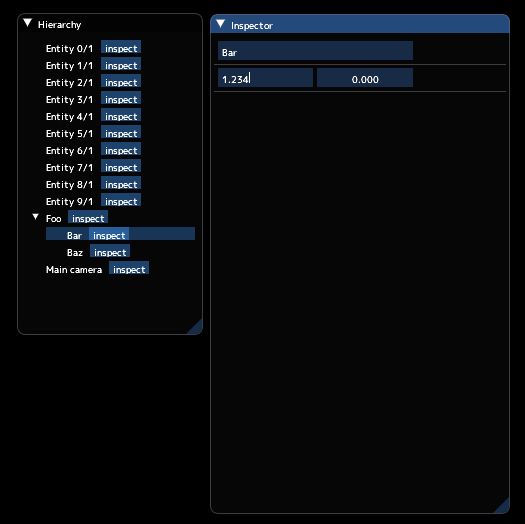
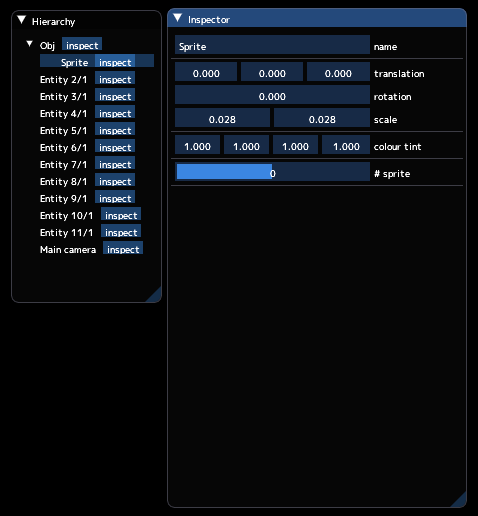
userdata, readme upd, screenshot upd

Changed region(s): [[0.0293, 0.0, 0.9958, 0.9922]]

diff --git a/src/lib.rs b/src/lib.rs
@@ -3,18 +3,22 @@ use amethyst::{
 	ecs::prelude::*,
 };
 use amethyst_imgui::imgui;
+use std::any::Any;
 pub use paste;
 
 #[derive(Default)]
-pub struct InspectorState {
+pub struct InspectorState<UserData: Default + Any> {
 	pub selected: Option<Entity>,
+	pub user_data: UserData,
 }
 
 #[derive(Default, Clone, Copy)]
-pub struct InspectorHierarchy;
-impl<'s> System<'s> for InspectorHierarchy {
+pub struct InspectorHierarchy<UserData> {
+	_pd: std::marker::PhantomData<UserData>,
+}
+impl<'s, UserData: 'static + Sync + Send + Default + Any> System<'s> for InspectorHierarchy<UserData> {
 	type SystemData = (
-		Write<'s, InspectorState>,
+		Write<'s, InspectorState<UserData>>,
 		ReadStorage<'s, amethyst::core::Named>,
 		ReadStorage<'s, amethyst::core::Parent>,
 		ReadExpect<'s, amethyst::core::ParentHierarchy>,
@@ -25,7 +29,7 @@ impl<'s> System<'s> for InspectorHierarchy {
 		amethyst_imgui::with(move |ui| {
 			ui.window(imgui::im_str!("Hierarchy"))
 				.build(move || {
-					fn render_boy(entity: Entity, hierarchy: &amethyst::core::ParentHierarchy, names: &ReadStorage<'_, amethyst::core::Named>, ui: &imgui::Ui<'_>, inspector_state: &mut InspectorState) {
+					fn render_boy<UserData: Default + Any>(entity: Entity, hierarchy: &amethyst::core::ParentHierarchy, names: &ReadStorage<'_, amethyst::core::Named>, ui: &imgui::Ui<'_>, inspector_state: &mut InspectorState<UserData>) {
 						let children = hierarchy.children(entity);
 
 						let label: imgui::ImString = if let Some(name) = names.get(entity) {
@@ -65,21 +69,24 @@ impl<'s> System<'s> for InspectorHierarchy {
 	}
 }
 
-pub trait Inspect {
-	fn inspect(&mut self, entity: Entity, ui: &imgui::Ui<'_>);
+pub trait Inspect<'a> {
+	type UserData;
+	fn inspect(&mut self, entity: Entity, ui: &imgui::Ui<'_>, user_data: Self::UserData);
 }
 
-impl Inspect for Named {
-	fn inspect(&mut self, entity: Entity, ui: &imgui::Ui<'_>) {
+impl<'a> Inspect<'a> for Named {
+	type UserData = &'a mut dyn Any;
+	fn inspect(&mut self, entity: Entity, ui: &imgui::Ui<'_>, _user_data: Self::UserData) {
 		let mut buf = imgui::ImString::new(self.name.clone());
-		ui.input_text(imgui::im_str!("##named{}{}", entity.id(), entity.gen().id()), &mut buf).resize_buffer(true).build();
+		ui.input_text(imgui::im_str!("name##named{}{}", entity.id(), entity.gen().id()), &mut buf).resize_buffer(true).build();
 		self.name = std::borrow::Cow::from(String::from(buf.to_str()));
 		ui.separator();
 	}
 }
 
-impl Inspect for Transform {
-	fn inspect(&mut self, entity: Entity, ui: &imgui::Ui<'_>) {
+impl<'a> Inspect<'a> for Transform {
+	type UserData = &'a mut dyn Any;
+	fn inspect(&mut self, entity: Entity, ui: &imgui::Ui<'_>, _user_data: Self::UserData) {
 		{
 			let translation = self.translation();
 			let mut v: [f32; 3] = [translation[0], translation[1], translation[2]];
@@ -104,21 +111,42 @@ impl Inspect for Transform {
 	}
 }
 
-impl Inspect for amethyst::renderer::SpriteRender {
-	fn inspect(&mut self, entity: Entity, ui: &imgui::Ui<'_>) {
+// TODO: rework these so it can be a non-contiguous array of sprites etc
+pub trait MaxSprites {
+	fn max_sprites(&self) -> i32;
+	fn set_max_sprites(&mut self, value: i32);
+}
+
+pub struct SpriteInfo(pub u32);
+
+impl Component for SpriteInfo {
+	type Storage = DenseVecStorage<Self>;
+}
+
+impl<'a> Inspect<'a> for SpriteInfo {
+	type UserData = &'a mut dyn MaxSprites;
+	fn inspect(&mut self, entity: Entity, ui: &imgui::Ui<'_>, user_data: Self::UserData) {
+		user_data.set_max_sprites(self.0 as i32);
+	}
+}
+
+impl<'a> Inspect<'a> for amethyst::renderer::SpriteRender {
+	type UserData = &'a mut dyn MaxSprites;
+	fn inspect(&mut self, entity: Entity, ui: &imgui::Ui<'_>, user_data: Self::UserData) {
 		let mut sprite_number = self.sprite_number as i32;
-		ui.drag_int(imgui::im_str!("sprite_number##sprite_render{}{}", entity.id(), entity.gen().id()), &mut sprite_number).build();
+		ui.slider_int(imgui::im_str!("# sprite##sprite_render{}{}", entity.id(), entity.gen().id()), &mut sprite_number, 0, user_data.max_sprites()).build();
 		self.sprite_number = sprite_number as usize;
 		ui.separator();
 	}
 }
 
-impl Inspect for amethyst::renderer::Rgba {
-	fn inspect(&mut self, entity: Entity, ui: &imgui::Ui<'_>) {
+impl<'a> Inspect<'a> for amethyst::renderer::Rgba {
+	type UserData = &'a mut Any;
+	fn inspect(&mut self, entity: Entity, ui: &imgui::Ui<'_>, user_data: Self::UserData) {
 		use amethyst::renderer::Rgba;
 
 		let mut v: [f32; 4] = [self.0, self.1, self.2, self.3];
-		ui.drag_float4(imgui::im_str!("rgba##rgba{}{}", entity.id(), entity.gen().id()), &mut v).speed(0.1).build();
+		ui.drag_float4(imgui::im_str!("colour tint##rgba{}{}", entity.id(), entity.gen().id()), &mut v).speed(0.1).build();
 		std::mem::replace(self, v.into());
 		ui.separator();
 	}
@@ -126,13 +154,13 @@ impl Inspect for amethyst::renderer::Rgba {
 
 #[macro_export]
 macro_rules! inspector {
-	($($cmp:ident),+$(,)*) => {
+	($user_data:ident, $($cmp:ident),+$(,)*) => {
 		#[derive(Default)]
 		#[allow(missing_copy_implementations)]
 		pub struct Inspector;
 		impl<'s> System<'s> for Inspector {
 			type SystemData = (
-				Write<'s, InspectorState>,
+				Write<'s, InspectorState<$user_data>>,
 				$(WriteStorage<'s, $cmp>,)+
 			);
 
@@ -146,7 +174,7 @@ macro_rules! inspector {
 								let entity = if let Some(x) = inspector_state.selected { x } else { return; };
 								$(
 									if let Some(cmp) = [<hello $cmp>].get_mut(entity) {
-										cmp.inspect(entity, ui, &mut inspector_state);
+										cmp.inspect(entity, ui, &mut inspector_state.user_data);
 									}
 								)+
 							});

diff --git a/README.md b/README.md
@@ -4,26 +4,96 @@ Unity-inspired entity hierarchy and component editor via [amethyst-imgui](https:
 ## Usage:
 1. Implement `Inspect` for all components that you want to show up in the inspector. For example:
 ```rust
-impl Inspect for Transform {
-	fn inspect(&mut self, entity: Entity, ui: &imgui::Ui<'_>) {
-		let mut v: [f32; 2] = self.translation().xy().into();
-		ui.drag_float2(imgui::im_str!("##transform{}{}", entity.id(), entity.gen().id()), &mut v).build();
-		self.set_translation_x(v[0]);
-		self.set_translation_y(v[1]);
+impl<'a> Inspect<'a> for Transform {
+	type UserData = &'a mut dyn Any;
+	fn inspect(&mut self, entity: Entity, ui: &imgui::Ui<'_>, _user_data: Self::UserData) {
+		{
+			let translation = self.translation();
+			let mut v: [f32; 3] = [translation[0], translation[1], translation[2]];
+			ui.drag_float3(imgui::im_str!("translation##transform{}{}", entity.id(), entity.gen().id()), &mut v).speed(0.1).build();
+			self.set_translation(v.into());
+		}
+
+		{
+			let mut rotation = self.rotation().euler_angles().2.to_degrees();
+			if rotation == -180. { rotation = 180.; }
+			ui.drag_float(imgui::im_str!("rotation##transform{}{}", entity.id(), entity.gen().id()), &mut rotation).speed(0.25).build();
+			self.set_rotation_2d(rotation.to_radians());
+		}
+
+		{
+			let scale = self.scale().xy();
+			let mut v: [f32; 2] = [scale[0], scale[1]];
+			ui.drag_float2(imgui::im_str!("scale##transform{}{}", entity.id(), entity.gen().id()), &mut v).speed(0.1).build();
+			self.set_scale(v[0], v[1], 1.);
+		}
+		ui.separator();
 	}
 }
 ```
-2. List all components you want to show up in the inspector in the `inspector!` macro. This creates a system called `Inspector`.
+2. List your `UserData` and all components you want to show up in the inspector with an `inspector!` macro. This creates a system called `Inspector`. For example:
 ```rust
+pub struct UserData;
+
 inspector![
+	UserData,
 	Named,
 	Transform,
+	Rgba,
 ];
 ```
 3. Add `InspectorHierarchy` and `Inspector` to your systems
 ```rust
 	.with(InspectorHierarchy, "inspector_hierarchy", &[])
 	.with(Inspector, "inspector", &["inspector_hierarchy"])
+```
+
+# Advanced usage:
+Your `UserData` struct can be used by inspectors to pass some data along. For example:
+```rust
+// Add this to entities using SpriteRender
+pub struct SpriteInfo(pub u32, pub u32);
+impl Component for SpriteInfo {
+	type Storage = DenseVecStorage<Self>;
+}
+
+// ------------------
+
+struct UserData {
+	first_sprite: i32,
+	last_sprite: i32,
+}
+
+// ------------------
+
+impl<'a> Inspect<'a> for SpriteInfo {
+	type UserData = &'a mut UserData;
+	fn inspect(&mut self, entity: Entity, ui: &imgui::Ui<'_>, user_data: Self::UserData) {
+		user_data.first_sprite = self.0 as i32;
+		user_data.last_sprite = self.1 as i32;
+	}
+}
+
+impl<'a> Inspect<'a> for amethyst::renderer::SpriteRender {
+	type UserData = &'a mut UserData;
+	fn inspect(&mut self, entity: Entity, ui: &imgui::Ui<'_>, user_data: Self::UserData) {
+		let mut sprite_number = self.sprite_number as i32;
+		ui.slider_int(imgui::im_str!("# sprite##sprite_render{}{}", entity.id(), entity.gen().id()), &mut sprite_number, user_data.first_sprite, user_data.last_sprite).build();
+		self.sprite_number = sprite_number as usize;
+		ui.separator();
+	}
+}
+
+// ------------------
+
+inspector![
+	UserData,
+	Named,
+	Transform,
+	Rgba,
+	SpriteInfo,
+	SpriteRender,
+];
 ```
 
 ![screenshot](https://raw.githubusercontent.com/awpteamoose/amethyst-inspector/master/screenshot.png)
